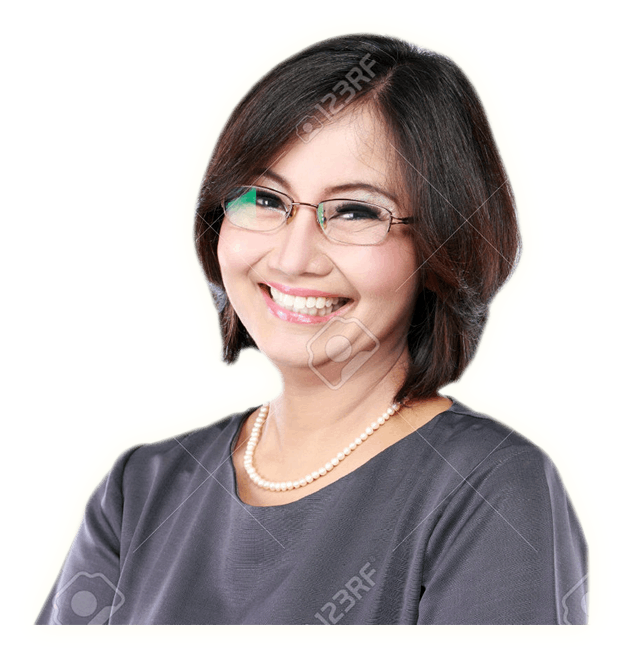
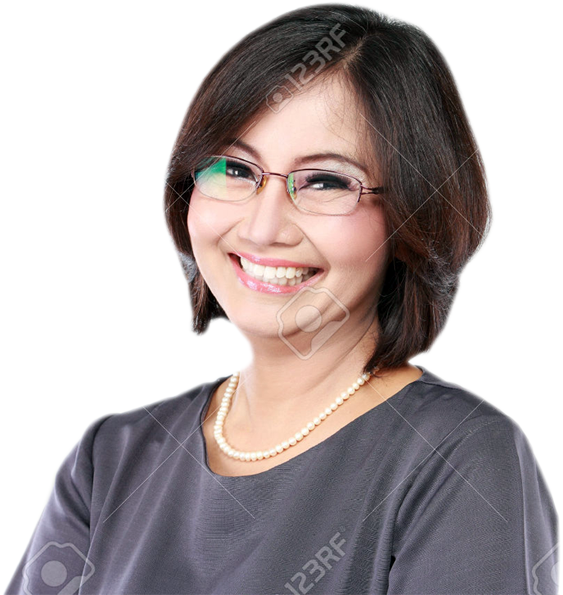
v1.1

diff --git a/index.html b/index.html
@@ -47,128 +47,138 @@
     </header>
 
     <!----------------------------- about ---------------------------->
-    <section class="about" data-section="about-sect">
-        <h3 class="about__title">About BGStudio </h3>
-        <span class="about__title--line"></span>
-        <p class="about__description">Lorem, ipsum dolor sit amet consectetur adipisicing elit. Nulla sit
-            fugiat
-            facere, excepturi aspernatur labore mollitia quo sunt vel deserunt illo, corporis nostrum sequi impedit
-            neque culpa laborum alias est. Lorem ipsum dolor sit amet consectetur adipisicing elit. Dignissimos, nulla.
-        </p>
+    <main>
+        <section class="about" data-section="about-sect">
+            <h3 class="about__title">About BGStudio </h3>
+            <span class="about__title--line"></span>
+            <p class="about__description">Lorem, ipsum dolor sit amet consectetur adipisicing elit. Nulla sit
+                fugiat
+                facere, excepturi aspernatur labore mollitia quo sunt vel deserunt illo, corporis nostrum sequi impedit
+                neque culpa laborum alias est. Lorem ipsum dolor sit amet consectetur adipisicing elit. Dignissimos,
+                nulla.
+            </p>
 
-        <div class="about-wrap">
-            <div class="about-wrap__image-woman2"></div>
-            <article class="about-wrap__desc">
-                <p>Lorem ipsum dolor sit amet consectetur adipisicing elit. Molestias cupiditate velit enim delectus
-                    omnis. Nam illo quaerat minima deserunt delectus ad dolorum! Atque explicabo, perferendis
-                    reprehenderit temporibus corporis.</p>
-                <p>Lorem ipsum dolor sit amet consectetur adipisicing elit. Culpa deserunt sunt laborum est
-                    reprehenderit non consequatur assumenda illo accusamus perferendis dolor qui, tempora voluptate
-                    neque ullam, animi fuga quas earum?</p>
-                <a href="#">Read our Story</a>
-            </article>
-        </div>
-    </section>
-
-    <!--------------------------- email --------------------------->
-
-    <section class="email" data-section="new-here-sect">
-        <div class="email-container">
-            <div class="email-container-title">
-                <h3 class="email__title">How can we build your online presence</h3>
-                <p class="email__title-desc">Lorem ipsum dolor sit amet consectetur adipisicing elit. </p>
+            <div class="about-wrap">
+                <div class="about-wrap__image-woman2"></div>
+                <article class="about-wrap__desc">
+                    <p>Lorem ipsum dolor sit amet consectetur adipisicing elit. Molestias cupiditate velit enim
+                        delectus
+                        omnis. Nam illo quaerat minima deserunt delectus ad dolorum! Atque explicabo, perferendis
+                        reprehenderit temporibus corporis.</p>
+                    <p>Lorem ipsum dolor sit amet consectetur adipisicing elit. Culpa deserunt sunt laborum est
+                        reprehenderit non consequatur assumenda illo accusamus perferendis dolor qui, tempora voluptate
+                        neque ullam, animi fuga quas earum?</p>
+                    <a href="#">Read our Story</a>
+                </article>
             </div>
-            <form class="form">
-                <input type="text" placeholder="Enter your full name" class="input">
-                <input type="text" placeholder="Enter your email address" class="input">
-                <button class="email__btn btn--email">Get it Now!</button>
-            </form>
-        </div>
-    </section>
+        </section>
 
+        <!--------------------------- email --------------------------->
 
-    <!------------------------- services ------------------------------->
-    <section class="services" data-section="blog-sect">
-        <h3 class="services__title title">What we do best</h3>
-        <span class="services__title--line title-line"></span>
-        <p class="services__description desc">Lorem ipsum dolor sit amet consectetur adipisicing elit. Vel labore
-            asperiores
-            ipsum harum reiciendis laudantium quos, alias iure fuga earum. Eveniet, voluptatem! Blanditiis, pariatur ut
-            laborum ex aspernatur.</p>
-
-        <div class="services-container">
-            <div class="service">
-                <div class="service__icon"></div>
-                <h4 class="service__title">One to One Coaching</h4>
-                <p class="service__desc">Lorem ipsum, dolor sit amet consectetur adipisicing elit. Itaque at commodi
-                    temporibus eum fugiat eligendi ut repellendus iusto illo? Cum porro incidunt magni rerum, deleniti
-                    architecto minus corrupti accusantium perspiciatis!</p>
-                <button class="service__btn">Get it Now!</button>
+        <section class="email" data-section="new-here-sect">
+            <div class="email-container">
+                <div class="email-container-title">
+                    <h3 class="email__title">How can we build your online presence</h3>
+                    <p class="email__title-desc">Lorem ipsum dolor sit amet consectetur adipisicing elit. </p>
+                </div>
+                <form class="form">
+                    <input type="text" placeholder="Enter your full name" class="input">
+                    <input type="text" placeholder="Enter your email address" class="input">
+                    <button class="email__btn btn--email">Get it Now!</button>
+                </form>
             </div>
+        </section>
 
-            <div class="service service2">
-                <div class="service__icon service__icon2"></div>
-                <h4 class="service__title service__title2">Website Development</h4>
-                <p class="service__desc">Lorem ipsum, dolor sit amet consectetur adipisicing elit. Itaque at commodi
-                    temporibus eum fugiat eligendi ut repellendus iusto illo? Cum porro incidunt magni rerum, deleniti
-                    architecto minus corrupti accusantium perspiciatis!</p>
-                <button class="service__btn service__btn2">Learn More</button>
+
+        <!------------------------- services ------------------------------->
+        <section class="services" data-section="blog-sect">
+            <h3 class="services__title title">What we do best</h3>
+            <span class="services__title--line title-line"></span>
+            <p class="services__description desc">Lorem ipsum dolor sit amet consectetur adipisicing elit. Vel labore
+                asperiores
+                ipsum harum reiciendis laudantium quos, alias iure fuga earum. Eveniet, voluptatem! Blanditiis,
+                pariatur ut
+                laborum ex aspernatur.</p>
+
+            <div class="services-container">
+                <div class="service">
+                    <div class="service__icon"></div>
+                    <h4 class="service__title">One to One Coaching</h4>
+                    <p class="service__desc">Lorem ipsum, dolor sit amet consectetur adipisicing elit. Itaque at
+                        commodi
+                        temporibus eum fugiat eligendi ut repellendus iusto illo? Cum porro incidunt magni rerum,
+                        deleniti
+                        architecto minus corrupti accusantium perspiciatis!</p>
+                    <button class="service__btn">Get it Now!</button>
+                </div>
+
+                <div class="service service2">
+                    <div class="service__icon service__icon2"></div>
+                    <h4 class="service__title service__title2">Website Development</h4>
+                    <p class="service__desc">Lorem ipsum, dolor sit amet consectetur adipisicing elit. Itaque at
+                        commodi
+                        temporibus eum fugiat eligendi ut repellendus iusto illo? Cum porro incidunt magni rerum,
+                        deleniti
+                        architecto minus corrupti accusantium perspiciatis!</p>
+                    <button class="service__btn service__btn2">Learn More</button>
+                </div>
             </div>
-        </div>
-    </section>
+        </section>
 
-    <!-------------------------- opinions ------------------------------->
+        <!-------------------------- opinions ------------------------------->
 
-    <section class="opinions" data-section="services-sect">
-        <h3 class="opinions__title title">What our clients have to say...</h3>
-        <span class="opinions__title--line title-line"></span>
-        <p class="opinions__description desc">Lorem ipsum dolor sit amet consectetur adipisicing elit. Vel labore
-            asperiores
-            ipsum harum reiciendis laudantium quos, alias iure fuga earum. Eveniet, voluptatem! Blanditiis, pariatur ut
-            laborum ex aspernatur provident expedita.</p>
+        <section class="opinions" data-section="services-sect">
+            <h3 class="opinions__title title">What our clients have to say...</h3>
+            <span class="opinions__title--line title-line"></span>
+            <p class="opinions__description desc">Lorem ipsum dolor sit amet consectetur adipisicing elit. Vel labore
+                asperiores
+                ipsum harum reiciendis laudantium quos, alias iure fuga earum. Eveniet, voluptatem! Blanditiis,
+                pariatur ut
+                laborum ex aspernatur provident expedita.</p>
 
-        <div class="opinions-container">
-            <div class="opinion">
-                <div class="opinion__quotation-mark"></div>
-                <p class="opinion__description">Lorem ipsum dolor sit amet consectetur adipisicing elit. Repellat
-                    possimus assumenda corporis distinctio quisquam eos commodi optio minus, cumque provident, sed
-                    fugiat? Quas incidunt non enim explicabo atque, numquam commodi.</p>
-                <div class="opinion__image-man"></div>
-                <h4 class="opinion__image-man--name">ben angel</h4>
-                <a href="#" class="opinion__image-man--link">www.hellogongeous.com</a>
+            <div class="opinions-container">
+                <div class="opinion">
+                    <div class="opinion__quotation-mark"></div>
+                    <p class="opinion__description">Lorem ipsum dolor sit amet consectetur adipisicing elit. Repellat
+                        possimus assumenda corporis distinctio quisquam eos commodi optio minus, cumque provident, sed
+                        fugiat? Quas incidunt non enim explicabo atque, numquam commodi.</p>
+                    <div class="opinion__image-man"></div>
+                    <h4 class="opinion__image-man--name">ben angel</h4>
+                    <a href="#" class="opinion__image-man--link">www.hellogongeous.com</a>
+                </div>
+
+                <div class="opinion">
+                    <div class="opinion__quotation-mark"></div>
+                    <p class="opinion__description">Lorem ipsum dolor sit amet consectetur adipisicing elit. Repellat
+                        possimus assumenda corporis distinctio quisquam eos commodi optio minus, cumque provident, sed
+                        fugiat? Quas incidunt non enim explicabo atque, numquam commodi.</p>
+                    <div class="opinion__image-man"></div>
+                    <h4 class="opinion__image-man--name">ben angel</h4>
+                    <a href="#" class="opinion__image-man--link">www.hellogongeous.com</a>
+                </div>
+
+                <div class="opinion">
+                    <div class="opinion__quotation-mark"></div>
+                    <p class="opinion__description">Lorem ipsum dolor sit amet consectetur adipisicing elit. Repellat
+                        possimus assumenda corporis distinctio quisquam eos commodi optio minus, cumque provident, sed
+                        fugiat? Quas incidunt non enim explicabo atque, numquam commodi.</p>
+                    <div class="opinion__image-man"></div>
+                    <h4 class="opinion__image-man--name">ben angel</h4>
+                    <a href="#" class="opinion__image-man--link">www.hellogongeous.com</a>
+                </div>
             </div>
+        </section>
 
-            <div class="opinion">
-                <div class="opinion__quotation-mark"></div>
-                <p class="opinion__description">Lorem ipsum dolor sit amet consectetur adipisicing elit. Repellat
-                    possimus assumenda corporis distinctio quisquam eos commodi optio minus, cumque provident, sed
-                    fugiat? Quas incidunt non enim explicabo atque, numquam commodi.</p>
-                <div class="opinion__image-man"></div>
-                <h4 class="opinion__image-man--name">ben angel</h4>
-                <a href="#" class="opinion__image-man--link">www.hellogongeous.com</a>
-            </div>
+        <!----------------------------- summary ------------------------------>
 
-            <div class="opinion">
-                <div class="opinion__quotation-mark"></div>
-                <p class="opinion__description">Lorem ipsum dolor sit amet consectetur adipisicing elit. Repellat
-                    possimus assumenda corporis distinctio quisquam eos commodi optio minus, cumque provident, sed
-                    fugiat? Quas incidunt non enim explicabo atque, numquam commodi.</p>
-                <div class="opinion__image-man"></div>
-                <h4 class="opinion__image-man--name">ben angel</h4>
-                <a href="#" class="opinion__image-man--link">www.hellogongeous.com</a>
-            </div>
-        </div>
-    </section>
-
-    <!----------------------------- summary ------------------------------>
-
-    <section class="summary" data-section="portfolio-sect">
-        <p class="summary__desc">Lorem ipsum dolor sit amet consectetur, adipisicing elit. Corporis et earum nostrum
-            vero non molestiae ratione repellat quibusdam adipisci. Cum atque voluptatibus voluptas recusandae ab
-            reprehenderit facere quo minima consequatur?</p>
-        <button class="summary__btn btn">work with us!</button>
-    </section>
-
+        <section class="summary" data-section="portfolio-sect">
+            <p class="summary__desc">Lorem ipsum dolor sit amet consectetur, adipisicing elit. Corporis et earum
+                nostrum
+                vero non molestiae ratione repellat quibusdam adipisci. Cum atque voluptatibus voluptas recusandae ab
+                reprehenderit facere quo minima consequatur?</p>
+            <button class="summary__btn btn">work with us!</button>
+        </section>
+    </main>
     <!------------------------------- footer ----------------------------->
     <section class="footer" data-section="work-with-us-sect">
 
@@ -188,8 +198,9 @@
         <div class="footer__icons">
             <a href="#" class="icon"><i class="fab fa-facebook"></i></a>
             <a href="#" class="icon"><i class="fab fa-twitter-square"></i></a>
-            <a href="#" class="icon"><i class="fab fa-linkedin"></i></a>
+            <a href="https://www.linkedin.com/in/rafallabisz" class="icon"><i class="fab fa-linkedin"></i></a>
         </div>
+        <p class="footer__signature">&#169; 2019 Rafał Labisz</p>
     </section>
 
     <script src="js/script.js"></script>

diff --git a/css/style.css b/css/style.css
@@ -225,8 +225,6 @@
     color: #838383;
 }
 
-/* .about-wrap {} */
-
 .about-wrap__image-woman2 {
     background: no-repeat url('../img/woman2.jpg');
     background-size: contain;
@@ -337,12 +335,6 @@
     text-align: center;
 }
 
-/* .services__title {} */
-
-/* .services__title--line {} */
-
-/* .services__description {} */
-
 .services-container {
     margin-top: 30px;
     padding-bottom: 20px;
@@ -439,13 +431,6 @@
     background-color: #fff;
     text-align: center;
 }
-
-/* .opinions__title {} */
-
-/* .opinions__title--line {} */
-
-/* .opinions__description {} */
-
 
 .opinions-container {
     margin-top: 20px;
@@ -554,7 +539,6 @@
 
 .footer {
     background-color: #011e22;
-    /* min-height: 20vh; */
 }
 
 .footer__nav {
@@ -567,7 +551,6 @@
     flex-wrap: wrap;
     text-align: center;
     align-items: center;
-
 }
 
 .footer_nav-ul--li {
@@ -598,12 +581,11 @@
     background-size: contain;
     background-position: center;
     height: 50px;
-
 }
 
 .footer__icons {
     text-align: center;
-    padding: 10px 0 15px;
+    padding: 10px 0 5px;
 }
 
 .footer__icons i {
@@ -614,6 +596,12 @@
 
 .footer__icons i:hover {
     color: white;
+}
+
+.footer__signature {
+    text-align: center;
+    color: #fff;
+    padding-bottom: 5px;
 }
 
 @media(min-width: 375px) and (min-height: 812px) {
@@ -664,11 +652,9 @@
 
     .nav {
         background-color: transparent;
-        /* position: static; */
     }
 
     .nav.transp {
-        /* position: fixed; */
         background-color: #00b8cc;
     }
 
@@ -692,10 +678,6 @@
         align-items: center;
         justify-content: center;
         border-bottom: 2px solid rgba(255, 255, 255, 0.3);
-    }
-
-    .menu.transp {
-        /* background-color: #00b8cc; */
     }
 
     .menu__li {
@@ -736,7 +718,7 @@
     }
 
     .page-header__image_woman1 {
-        background: no-repeat url('../img/woman1v2.png');
+        background: no-repeat url('../img/woman1.png');
         background-size: contain;
         background-position: right;
         width: 50%;

diff --git a/js/script.js b/js/script.js
@@ -53,25 +53,6 @@ logo.addEventListener('click', scrollTo);
 //transparent menu
 
 const nav = document.querySelector('.nav');
-// window.onscroll = () => {
-// nav.classList.toggle('transp', window.pageYOffset > 0);
-// nav.classList.toggle('transp', window.scrollY > 0);
-// menu.classList.toggle('transp', window.pageYOffset > 0);
-// menu.classList.toggle('transp', window.scrollY > 0);
-// }
-
 window.addEventListener('scroll', function () {
     nav.classList.toggle('transp', window.scrollY > 0);
 })
-
-// window.addEventListener('scroll', function () {
-//     if (window.scrollY <= 0) {
-//         nav.style.backgroundColor = 'transparent';
-//         nav.style.position = 'static';
-//         menu.style.backgroundColor = 'transparent';
-//     } else {
-//         nav.style.backgroundColor = '#00b8cc';
-//         nav.style.position = 'fixed';
-//         menu.style.backgroundColor = '#00b8cc';
-//     }
-// })
